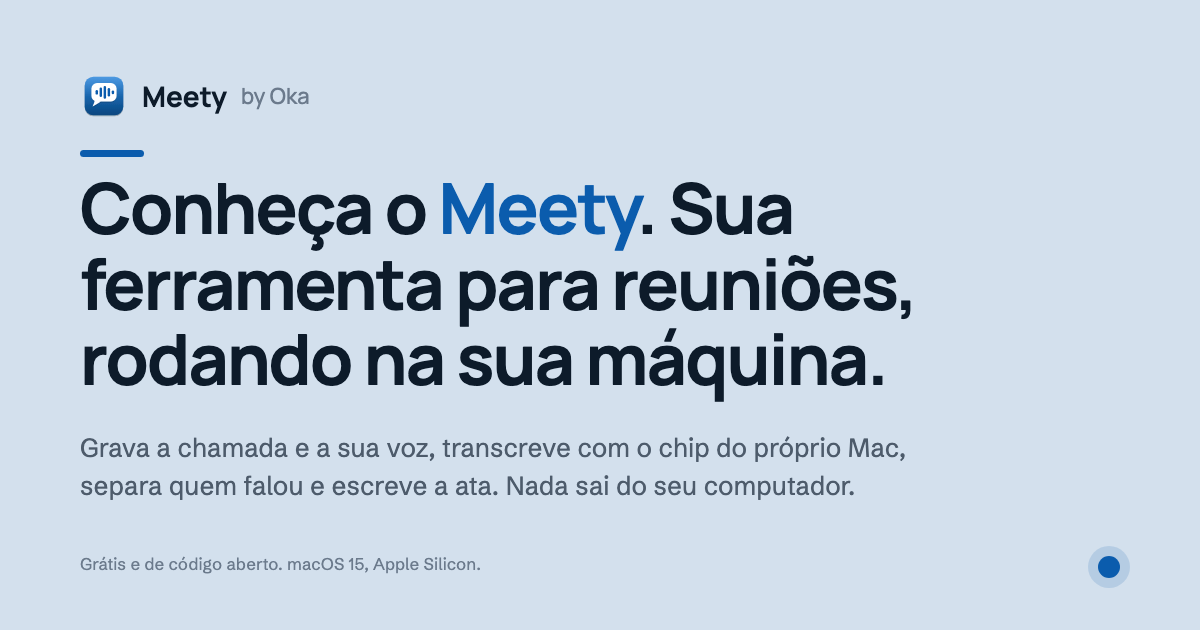
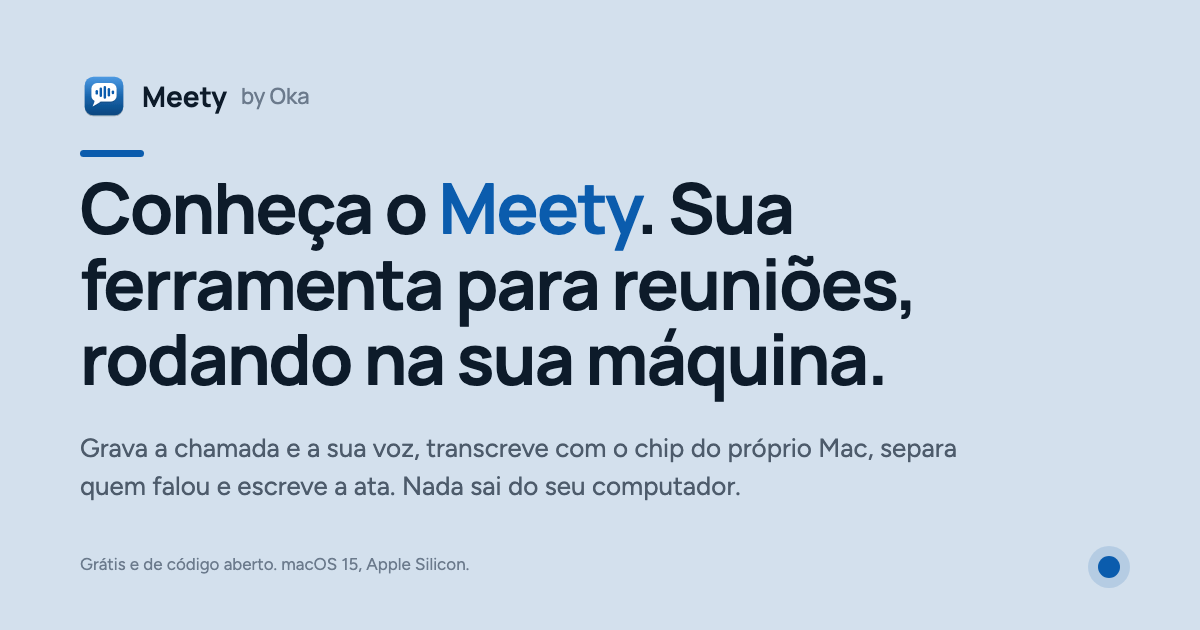
Site: texto em Figtree
Claude-Session: https://claude.ai/code/session_01Sz6BGCFANFcyKzwbx4Zd7R

Changed region(s): [[0.0617, 0.6937, 0.8017, 0.7238], [0.0617, 0.754, 0.7092, 0.7841], [0.0617, 0.8746, 0.4008, 0.9048]]

diff --git a/site/styles.css b/site/styles.css
@@ -27,7 +27,7 @@
   --nav: rgba(8, 24, 44, 0.92);
   --shadow-glass: inset 1px 1px 0 rgba(255, 255, 255, 0.85), inset -1px -1px 0 rgba(255, 255, 255, 0.30), inset 0 0 28px rgba(255, 255, 255, 0.22), 0 0 0 1px rgba(13, 40, 70, 0.07), 0 18px 40px -20px rgba(10, 40, 80, 0.40);
   --display: "Manrope", -apple-system, BlinkMacSystemFont, "Helvetica Neue", sans-serif;
-  --sans: "Schibsted Grotesk", -apple-system, BlinkMacSystemFont, "Helvetica Neue", sans-serif;
+  --sans: "Figtree", -apple-system, BlinkMacSystemFont, "Helvetica Neue", sans-serif;
   --mono: "DM Mono", ui-monospace, "SF Mono", Menlo, monospace;
   --r: 12px;
   --gutter: clamp(16px, 5vw, 64px);

diff --git a/site/index.html b/site/index.html
@@ -25,7 +25,7 @@
 
   <link rel="preconnect" href="https://fonts.googleapis.com">
   <link rel="preconnect" href="https://fonts.gstatic.com" crossorigin>
-  <link href="https://fonts.googleapis.com/css2?family=Manrope:wght@500..800&family=Schibsted+Grotesk:ital,wght@0,400..700;1,400..700&family=DM+Mono:wght@400;500&display=swap" rel="stylesheet">
+  <link href="https://fonts.googleapis.com/css2?family=Manrope:wght@500..800&family=Figtree:ital,wght@0,400..700;1,400..700&family=DM+Mono:wght@400;500&display=swap" rel="stylesheet">
   <link rel="stylesheet" href="styles.css">
   <script type="module" src="main.js"></script>
 </head>
